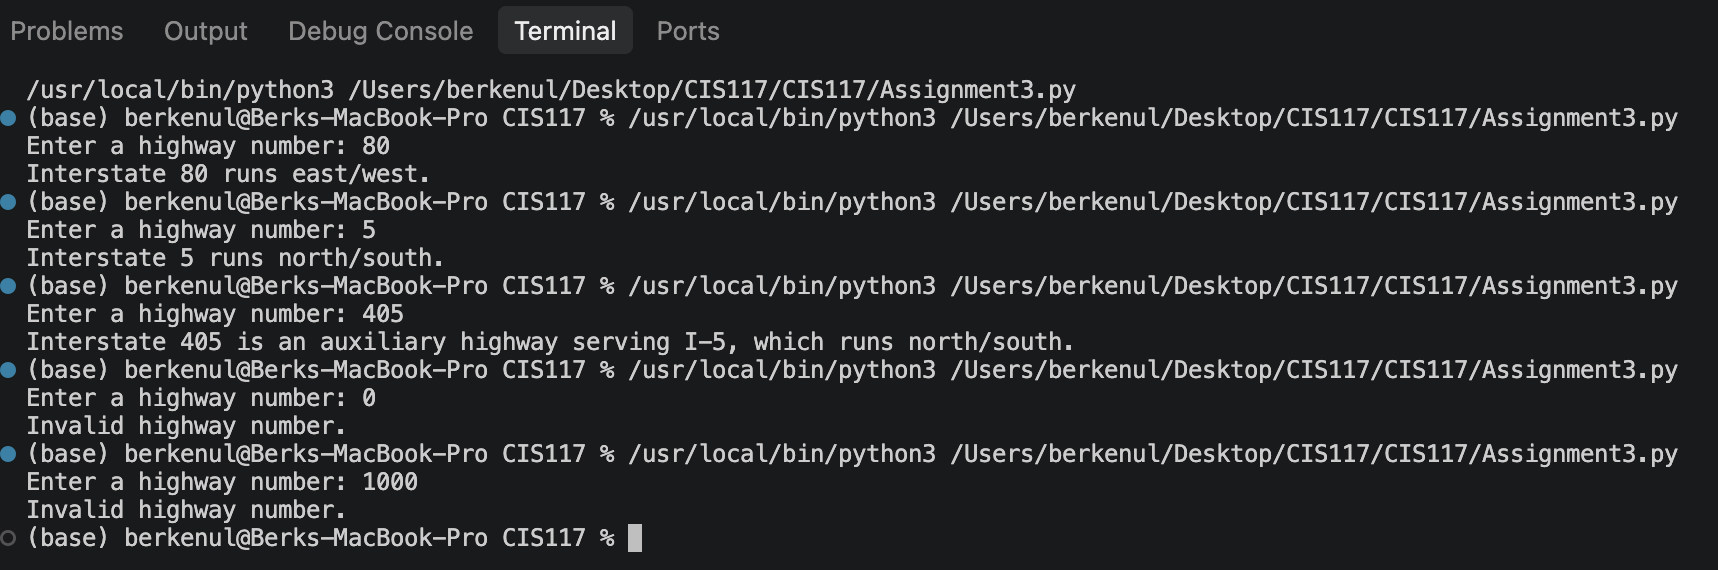
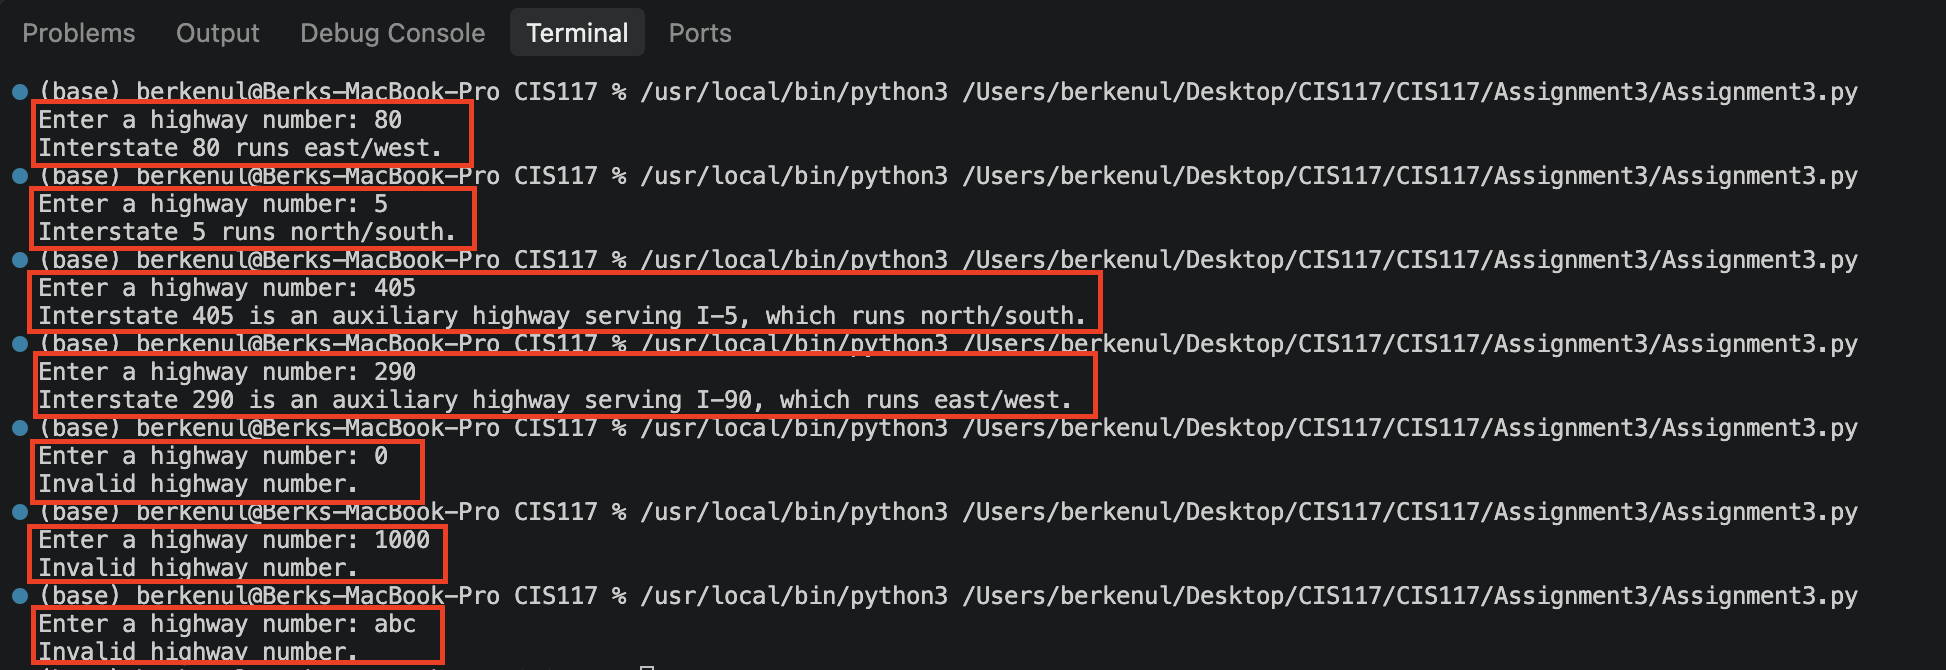
Assignment 3

Changed region(s): [[0.0, 0.1193, 0.9872, 1.0], [0.0, 0.0298, 0.4319, 0.0895]]

diff --git a/Assignment3/Assignment3.py b/Assignment3/Assignment3.py
@@ -2,29 +2,33 @@
 # Author: Berk Enul
 # Date: September 3, 2026
 
-highway = int(input("Enter a highway number: "))
+try:
+    highway = int(input("Enter a highway number: "))
 
-if highway <= 0 or highway > 999:
-    print("Invalid highway number.")
-
-elif highway <= 99:
-    if highway % 2 == 0:
-        print(f"Interstate {highway} runs east/west.")
-    else:
-        print(f"Interstate {highway} runs north/south.")
-
-else:
-    primary = highway % 100
-
-    if primary == 0:
+    if highway <= 0 or highway > 999:
         print("Invalid highway number.")
-    elif primary % 2 == 0:
-        print(
-            f"Interstate {highway} is an auxiliary highway serving "
-            f"I-{primary}, which runs east/west."
-        )
+
+    elif highway <= 99:
+        if highway % 2 == 0:
+            print(f"Interstate {highway} runs east/west.")
+        else:
+            print(f"Interstate {highway} runs north/south.")
+
     else:
-        print(
-            f"Interstate {highway} is an auxiliary highway serving "
-            f"I-{primary}, which runs north/south."
-        )
+        primary = highway % 100
+
+        if primary == 0:
+            print("Invalid highway number.")
+        elif primary % 2 == 0:
+            print(
+                f"Interstate {highway} is an auxiliary highway serving "
+                f"I-{primary}, which runs east/west."
+            )
+        else:
+            print(
+                f"Interstate {highway} is an auxiliary highway serving "
+                f"I-{primary}, which runs north/south."
+            )
+
+except ValueError:
+    print("Invalid highway number.")
